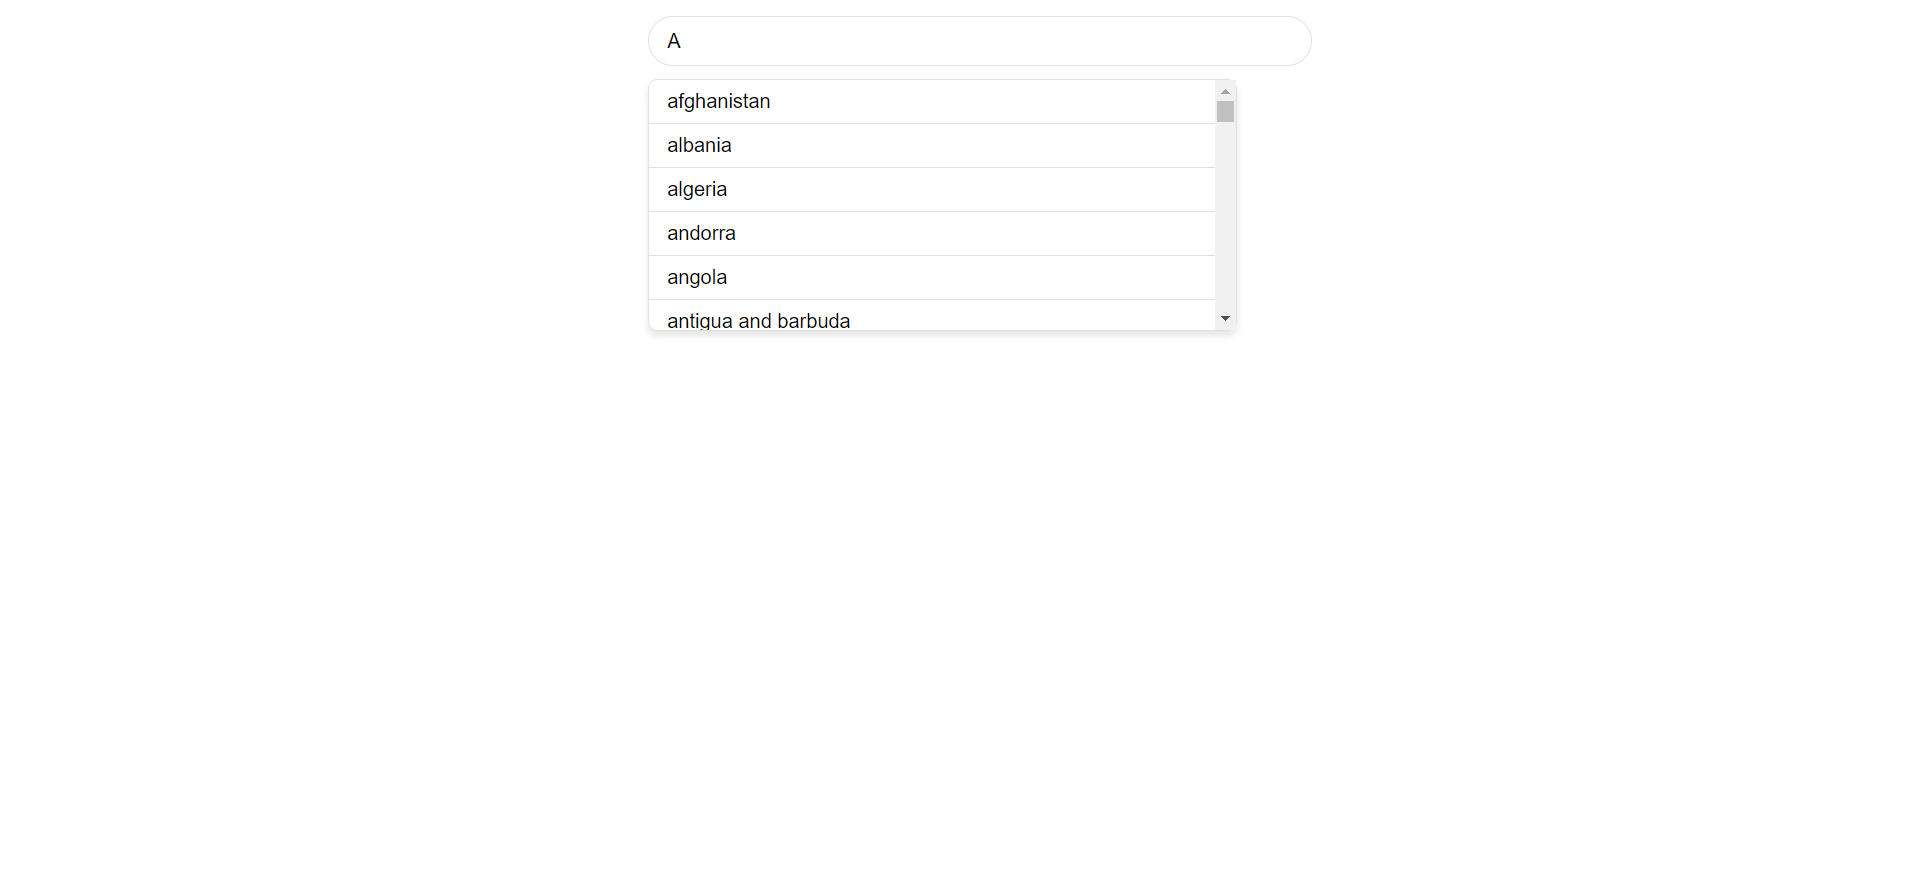
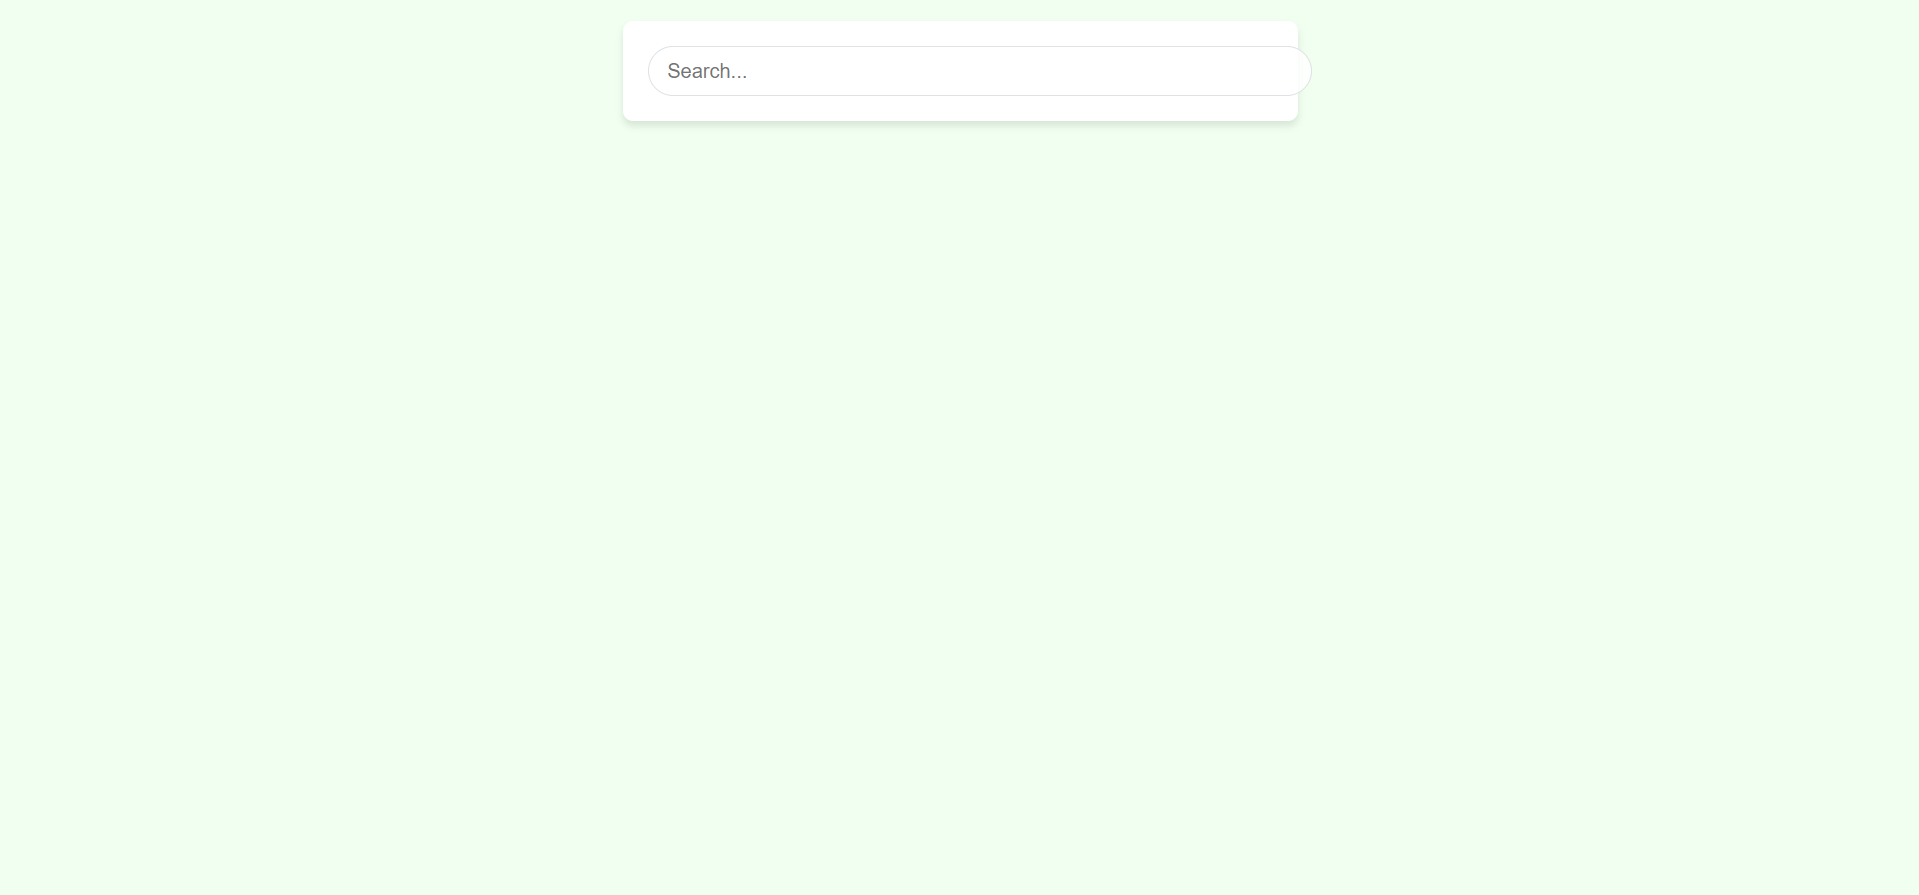
fix: client.js for capital in list

Changed region(s): [[0.3387, 0.0605, 0.6775, 0.2724], [0.3387, 0.3027, 0.4619, 0.3935]]

diff --git a/public/client.js b/public/client.js
@@ -2,20 +2,19 @@ document.addEventListener("DOMContentLoaded", function () {
     const searchBox = document.getElementById("searchBox");
     const matches = document.getElementById("matches");
 
-    // Fetch the list of countries and capitals
+    let countriesData = [];
     fetch("countriesData.json")
         .then(response => response.json())
         .then(data => {
-            let countries = data.map(item => item.name.toLowerCase());
+            countriesData = data;
 
-            // Event listener for input
             searchBox.addEventListener("input", function () {
                 let inputText = this.value.toLowerCase();
                 let suggestions = [];
 
                 if (inputText.length > 0) {
-                    suggestions = countries.filter(country =>
-                        country.includes(inputText)
+                    suggestions = countriesData.filter(country =>
+                        country.name.toLowerCase().includes(inputText) || country.capital.toLowerCase().includes(inputText)
                     );
                 }
 
@@ -26,11 +25,10 @@ document.addEventListener("DOMContentLoaded", function () {
             console.error("Error fetching data:", error);
         });
 
-    // Function to display autocomplete suggestions
     function displayMatches(suggestions) {
         if (suggestions.length > 0) {
             const html = suggestions
-                .map(suggestion => `<li>${suggestion}</li>`)
+                .map(suggestion => `<li>${suggestion.name} - ${suggestion.capital}</li>`)
                 .join("");
             matches.innerHTML = html;
             matches.style.display = "block";
@@ -40,16 +38,14 @@ document.addEventListener("DOMContentLoaded", function () {
         }
     }
 
-    // Event listener for selecting a suggestion
     matches.addEventListener("click", function (e) {
         if (e.target.tagName === "LI") {
-            searchBox.value = e.target.textContent;
+            searchBox.value = e.target.textContent.split(" - ")[0];
             matches.innerHTML = "";
             matches.style.display = "none";
         }
     });
 
-    // Close the suggestions when clicking outside the input
     document.addEventListener("click", function (e) {
         if (e.target !== searchBox && e.target !== matches) {
             matches.innerHTML = "";

diff --git a/public/style.css b/public/style.css
@@ -2,12 +2,17 @@ body {
     font-family: Arial, sans-serif;
     margin: 0;
     padding: 0;
+    background-color: #f0fff0;
 }
 
 .input-container {
     position: relative;
-    width: 500px; /* Adjust width as needed */
+    width: 500px;
     margin: 20px auto;
+    background-color: #ffffff;
+    border-radius: 8px;
+    padding: 20px;
+    box-shadow: 0 4px 6px rgba(0, 0, 0, 0.1);
 }
 
 input[type="text"] {
@@ -17,6 +22,7 @@ input[type="text"] {
     border: 1px solid #dfe1e5;
     border-radius: 24px;
     outline: none;
+    background-color: rgba(255, 255, 255, 0.8);
 }
 
 ul {
@@ -24,15 +30,15 @@ ul {
     padding: 0;
     margin: 0;
     position: absolute;
-    top: 50px; /* Adjust top position to align dropdown with input */
-    width: calc(100% - 30px); /* Adjust width to match input */
+    top: 50px;
+    width: calc(100% - 30px);
     background-color: #fff;
     border: 1px solid #dfe1e5;
     border-radius: 8px;
     box-shadow: 0 4px 6px rgba(0, 0, 0, 0.1);
     z-index: 1000;
     display: none;
-    max-height: 200px; /* Adjust maximum height as needed */
+    max-height: 200px;
     overflow-y: auto;
 }
 

diff --git a/README.md b/README.md
@@ -23,8 +23,8 @@ To run the application locally, follow these steps:
 - Click on a suggestion to select it and populate the input box with the selected country.
 
 ## Screenshots
-![Autocomplete Form](image-1.png)
-![Autocomplete List Based on Text](image.png)
+![Autocomplete Form](image.png)
+![Autocomplete List Based on Text](image-1.png)
 
 
 
